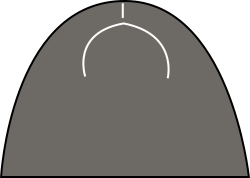
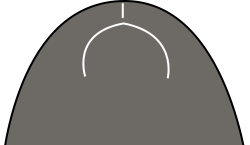
game(maze3d): update player rendering

Changed region(s): [[0.0, 0.0, 1.0, 1.0], [0.308, 0.0828, 0.7, 0.5517]]

diff --git a/baahbox/lib/games/maze3d/engine/render/RayCastingPainter.dart b/baahbox/lib/games/maze3d/engine/render/RayCastingPainter.dart
@@ -177,8 +177,7 @@ class RayCastingPainter extends CustomPainter {
       // Save the distance to the wall for this ray
       depthBuffer[i] = correctedDistance;
     }
-    // Render enemies
-
+    // Render target
     renderTarget(canvas, size, depthBuffer);
    // applyLighting(canvas, size);
   }
@@ -274,7 +273,7 @@ class RayCastingPainter extends CustomPainter {
         // Save the canvas state before applying transformations
         canvas.save();
 
-        // Translate canvas to the enemy's position
+        // Translate canvas to the target's position
         canvas.translate(screenX, screenHeight / 2);
 
 
@@ -315,7 +314,7 @@ class RayCastingPainter extends CustomPainter {
   }
 
   bool isTargetVisible(Target target, double distance) {
-    // Perform ray casting from player to enemy
+    // Perform ray casting from player to target
     double dx = target.x - player.x;
     double dy = target.y - player.y;
     double angleToTarget = atan2(dy, dx);
